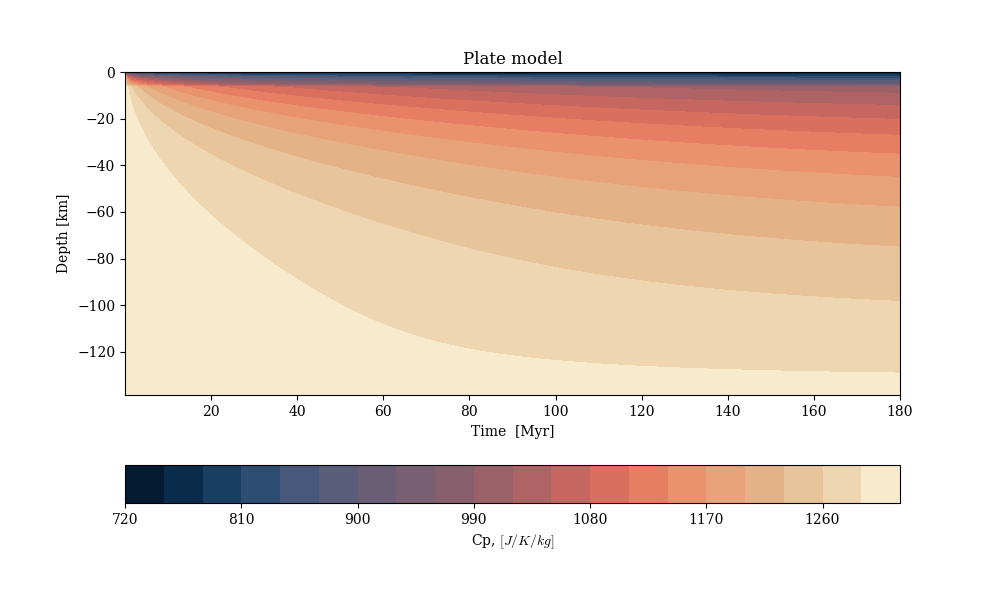
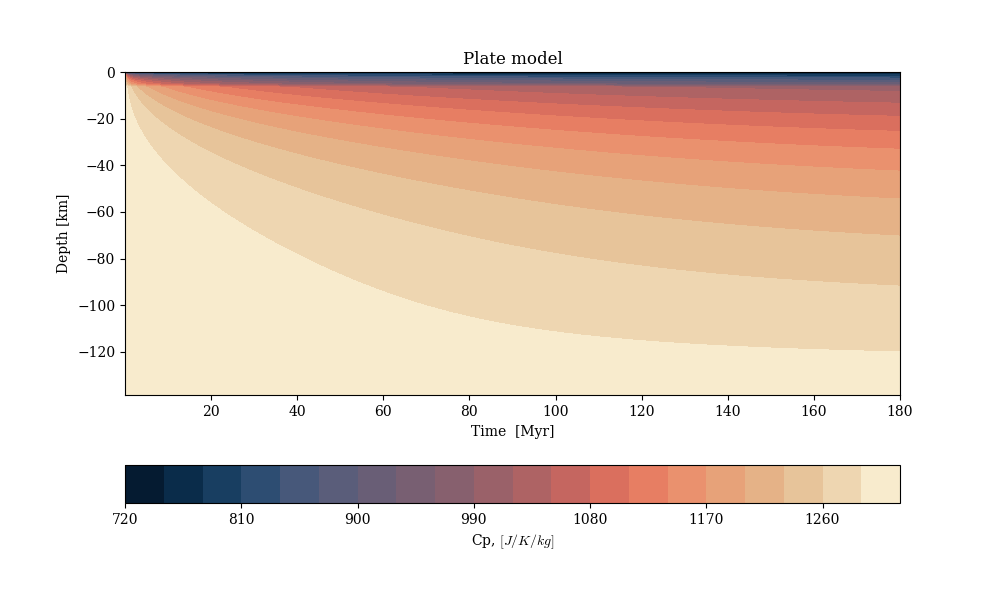
Finished. It works

Changed region(s): [[0.186, 0.3, 0.899, 0.63], [0.155, 0.27, 0.186, 0.3]]

diff --git a/src/thermal_structure_ocean.py b/src/thermal_structure_ocean.py
@@ -60,10 +60,81 @@ def _compute_lithostatic_pressure(nz,ph,g,dz,T,pdb):
 # M and D are different in the predictor and corrector step 
 #-----------------------------------------------------------------------------------------
 # Melting parametrisation
+def compute_initial_geotherm(Tp,z,sc,option_melt = 1 ):
+    
+    if option_melt == 1: 
+        
+        from Melting_parametrisation import lithologies,compute_Fraction,runge_kutta_algori,SL,dSL,rcpx,compute_T_cpx
+        
+        TS       = lambda  P :SL(1085.7, 132.9,-5.1,P)
+
+        dTS      = lambda  P :dSL(132.9,-5.1,P)
+
+        TLL      = lambda  P :SL(1475,80,-3.2,P)
+
+        dTLL     = lambda P  :dSL(80,-3.2,P)
+
+        TL       = lambda  P :SL(1780,45.0,-2.0,P)
+
+        dTL      = lambda  P :dSL(45.0,-2.0,P)
+
+        Mcpx     = lambda  fr,P :rcpx(0.5,0.08,fr,P)
+
+        TCpx     = lambda  fr,P :compute_T_cpx(Mcpx(fr,P),TS(P),TLL(P))
+
+        #Ts = None,Tcpx=None,TLl=None,TL = None,MCpx = None,dTs = None, dTL = None, dTLl = None
+        lhz = lithologies(Ts=TS,Tcpx=TCpx,TLl=TLL,TL=TL,MCpx=Mcpx,dTs=dTS,dTL=dTL,dTLl=dTLL)
+
+        P = (z*sc.L * 9.81 * lhz.rho) 
+        
+        T = np.zeros(len(P))
+        
+        P = np.flip(P)
+        
+        Tp = Tp*sc.Temp
+        T_start = (Tp) + 18/1e9*P[0]
+        
+        T[0] = T_start
+        fig = plt.figure()
+        ax = fig.gca()
+
+        for i in range(len(P)-1):
+            dP = P[i+1]- P[i]
+            F0  = compute_Fraction(T[i],TL(P[i]),TLL(P[i]),TS(P[i]),TCpx(lhz.fr,P[i]),Mcpx(lhz.fr,P[i]))  
+            dT = runge_kutta_algori(lhz,P[i],T[i],dP,F0,None,Tp)
+            T[i+1] = T[i] + dT 
+            if F0>0.0 and F0 <= lhz.Mcpx(lhz.fr,P[i]):
+                c = 'r'
+                alpha = 0.8 
+            elif F0 > lhz.Mcpx(lhz.fr,P[i]):
+                c = 'forestgreen'
+                alpha = 0.9
+            else:
+                c='k'
+                alpha = 0.3
 
 
+            ax.scatter(T[i]-273.15,P[i]/1e9,c=c,s=0.5,alpha = alpha)   
+
+        ax.invert_yaxis()
+
+        ax.plot(lhz.Ts(P) - 273.15 , P/1e9 ,linestyle='-.', c = 'k'          , linewidth = 0.8)
+        ax.plot(lhz.TLL(P) - 273.15, P/1e9 ,linestyle='--', c = 'forestgreen', linewidth = 0.8)
+        ax.plot(lhz.TL(P)  - 273.15, P/1e9 ,linestyle='-.', c = 'firebrick'  , linewidth = 0.8)
+        ax.plot(lhz.Tcpx(lhz.fr,P)- 273.15, P/1e9 ,linestyle='--', c = 'b'          , linewidth = 0.8)
+        
+        Told = np.flip(T)/sc.Temp
 
 
+    else: 
+        
+        Told = np.ones(len(z))*Tp
+     
+    
+    
+    
+    
+    return Told 
 
 #-----------------------------------------------------------------------------------------
 @njit
@@ -95,11 +166,11 @@ def build_coefficient_matrix(A,
                              step,
                              lit_p,
                              sc,
-                             ind_z):
+                             ind_z,
+                             Ttop,
+                             Tmax):
 
     nz         = lhs.nz 
-    Ttop       = ctrl.Ttop
-    Tmax       = ctrl.Tmax
     dt         = lhs.dt 
     dz         = lhs.dz
     
@@ -182,7 +253,7 @@ def build_coefficient_matrix(A,
 
                 M[i,j] = 1. 
 
-                D[j]   = Ttop + 0 
+                D[j]   = Ttop 
 
             elif (i == nz-1 and j == nz-1):
 
@@ -190,7 +261,7 @@ def build_coefficient_matrix(A,
 
                 M[i,j] = 1. 
 
-                D[j]   = Tmax + 0  
+                D[j]   = Tmax 
 
             else:
 
@@ -292,12 +363,7 @@ def compute_ocean_plate_temperature(ctrl,lhs,scal,pdb):
 
     # ========== initial conditions ========== 
 
-    z    = np.arange(0,nz*dz,dz)
-    ph   = np.zeros([nz],dtype = np.int32) # I assume that everything is mantle 
-    ph[z<6000/scal.L] = np.int32(1)
-    for i in range(0,nz):
-        if z[i] == depth_melt:
-            index_depth_melt = i
+
 
     if lhs.van_keken == 1: 
         from scipy import special
@@ -312,12 +378,18 @@ def compute_ocean_plate_temperature(ctrl,lhs,scal,pdb):
 
         return lhs,[],[]
 
-         
-    Told = (np.ones((nz))*ctrl.Tmax)
 
-            
+    
 
+    z    = np.arange(0,nz*dz,dz)
+    ph   = np.zeros([nz],dtype = np.int32) # I assume that everything is mantle 
+    ph[z<6000/scal.L] = np.int32(1)
+    
+    Told = compute_initial_geotherm(ctrl.Tmax,z,scal)
+    
+    
 
+    
     lit_p = _compute_lithostatic_pressure(nz,ph,g,dz,Told,pdb)
     
 
@@ -341,6 +413,8 @@ def compute_ocean_plate_temperature(ctrl,lhs,scal,pdb):
     Cp_tmp = zeros((nz),dtype=np.float64)
     rho_tmp = zeros((nz),dtype=np.float64)
 
+    Ttop = ctrl.Ttop
+    Tmax = np.max(Told)
 
     ind_z_lit = np.where(z>=120e3/scal.L)[0][0] # I force the temperature to be T_max at this dept -> Otherwise I have a temperature jump, and i do not know how much
     for time in range(1,nt):
@@ -368,7 +442,7 @@ def compute_ocean_plate_temperature(ctrl,lhs,scal,pdb):
             for step in range(2):   
 
 
-                    M,D = build_coefficient_matrix(A,B,D,Q,M,pdb,ph,ctrl,lhs,TO,TG,TPr,k_m,density_m,heat_capacity_m,step,lit_p,scal,ind_z_lit)
+                    M,D = build_coefficient_matrix(A,B,D,Q,M,pdb,ph,ctrl,lhs,TO,TG,TPr,k_m,density_m,heat_capacity_m,step,lit_p,scal,ind_z_lit,Ttop,Tmax)
                     # ========== Solve system of equations using numpy.linalg.solve ==========
 
                     if option_1D_solve == 1:
@@ -438,7 +512,7 @@ def compute_ocean_plate_temperature(ctrl,lhs,scal,pdb):
     Cp    = capacity.T[:,1::]*scal.Cp 
     k     = conductivity.T[:,1::]*scal.k 
     rho   = density.T[:,1::]*scal.rho 
-    LP   = pressure.T[:,1::]*scal.stress/1e9
+    LP    = pressure.T[:,1::]*scal.stress/1e9
 
     
     
@@ -452,7 +526,9 @@ def compute_ocean_plate_temperature(ctrl,lhs,scal,pdb):
     
     fg = plt.figure(figsize=(10,6))
     ax0 = fg.gca()
-    a = ax0.contourf(TTime,-ZZ,Tem, levels=np.linspace(100,1300,num=13), cmap='cmc.lipari')
+    a = ax0.contourf(TTime,-ZZ,Tem, levels=[0,100,200,300,500,600,700,800,900,1000,1100,1200,1300,1400], cmap='cmc.lipari')
+    b = ax0.contour(TTime, -ZZ, Tem,levels=[100,200,300,500,600,700,800,900,1000,1100,1200,1300],colors='white')
+    
     ax0.set_xlim(0,150)
     ax0.set_ylim(-150,0.0)
 

diff --git a/src/Melting_parametrisation.py b/src/Melting_parametrisation.py
@@ -4,9 +4,10 @@ import matplotlib.pyplot as plt
 
 
 class lithologies():
-    def __init__(self,Cp,S,Ts = None,Tcpx=None,TLl=None,TL = None,MCpx = None,dTs = None, dTL = None, dTLl = None):
+    def __init__(self,Cp=1187,S=407,fr = 0.15,alpha = 3e-5,Ts = None,Tcpx=None,TLl=None,TL = None,MCpx = None,dTs = None, dTL = None, dTLl = None):
         self.Cp    = Cp
-        self.alpha = 4e-5
+        self.alpha  = alpha 
+        self.alpha_l = 6.8e-5
         self.rho   = 3300 
         self.liq   = 2900 
         self.S     = S 
@@ -21,9 +22,8 @@ class lithologies():
         self.beta = 1.50 
         self.r0    = 0.5
         self.r1    = 0.08/1e9
-        self.fr    = 0.10 
+        self.fr    = fr
     
-    def SL(A,B,C,)
         
 def dry_differentiation(L,a,b,Tp):
     
@@ -53,7 +53,7 @@ def dFdP_derivative(L,P,T,dP,F):
 
 def dTdF_derivativeP(L,P,T,dP,F):
     
-    if F > L.Mcpx(P):
+    if F > L.Mcpx(L.fr,P):
 
         
         
@@ -88,7 +88,7 @@ def dTdP_derivativeF(L,P,T,dP,F):
         
     a0 = L.Ts(P)
     b0 = L.TLL(P)
-    c0 = L.Tcpx(P)
+    c0 = L.Tcpx(L.fr,P)
     d0 = L.TL(P)
     
     
@@ -99,7 +99,7 @@ def dTdP_derivativeF(L,P,T,dP,F):
     d1 = L.dTL(P)  # dTdP Tliquidus             
         
         
-    if F > L.Mcpx(P):
+    if F > L.Mcpx(L.fr,P):
 
         
         
@@ -136,7 +136,7 @@ def dTdP_derivativeF(L,P,T,dP,F):
 
 def dTdPS(L,P,T,Tp,dP):
     
-    F = compute_Fraction(T,L.TL(P),L.TLL(P),L.Ts(P),L.Tcpx(P),L.Mcpx(P))
+    F = compute_Fraction(T,L.TL(P),L.TLL(P),L.Ts(P),L.Tcpx(L.fr,P),L.Mcpx(L.fr,P))
     
     alpharho_l = 6.8e-5/L.liq
     alpharho_s = L.alpha/L.rho
@@ -150,9 +150,10 @@ def dTdPS(L,P,T,Tp,dP):
 def runge_kutta_algori(L,P,T,dP,F0,F1,Tp): 
 
     
-    
+    f = 1.0 
     if F0 == 0:
         dif = lambda P,T :dry_differentiation(L,P,  T, Tp)
+        f=0.0
     else: 
         dif = lambda P,T :dTdPS(L,P,T,Tp,dP)
 

diff --git a/Stoned_fenicx.py b/Stoned_fenicx.py
@@ -95,7 +95,7 @@ def StonedFenicsx():
     ctrl = NumericalControls(g               = IP.g,
                             v_s              = np.asarray(IP.v_s),
                             slab_age         = IP.slab_age,
-                            time_max         = IP.time_max,
+                            time_max         = 1333,
                             time_dependent_v = IP.time_dependent_v,
                             steady_state     = steady_state,
                             slab_bc          = IP.slab_bc,

diff --git a/src/numerical_control.py b/src/numerical_control.py
@@ -173,7 +173,7 @@ class ctrl_LHS:
         recalculate=0,        # flag for recomputation
         van_keken=1,          # benchmark flag
         d_RHS=-50e3,
-        z_min= 400e3# distance for RHS term
+        z_min= 140e3# distance for RHS term
     ):
         if dt > 0.1: 
             raise ValueError('dt: The input data must be in Myr. This timestep will be blow up the system. As a general remark: all input SI is Myr for time related parameters')
